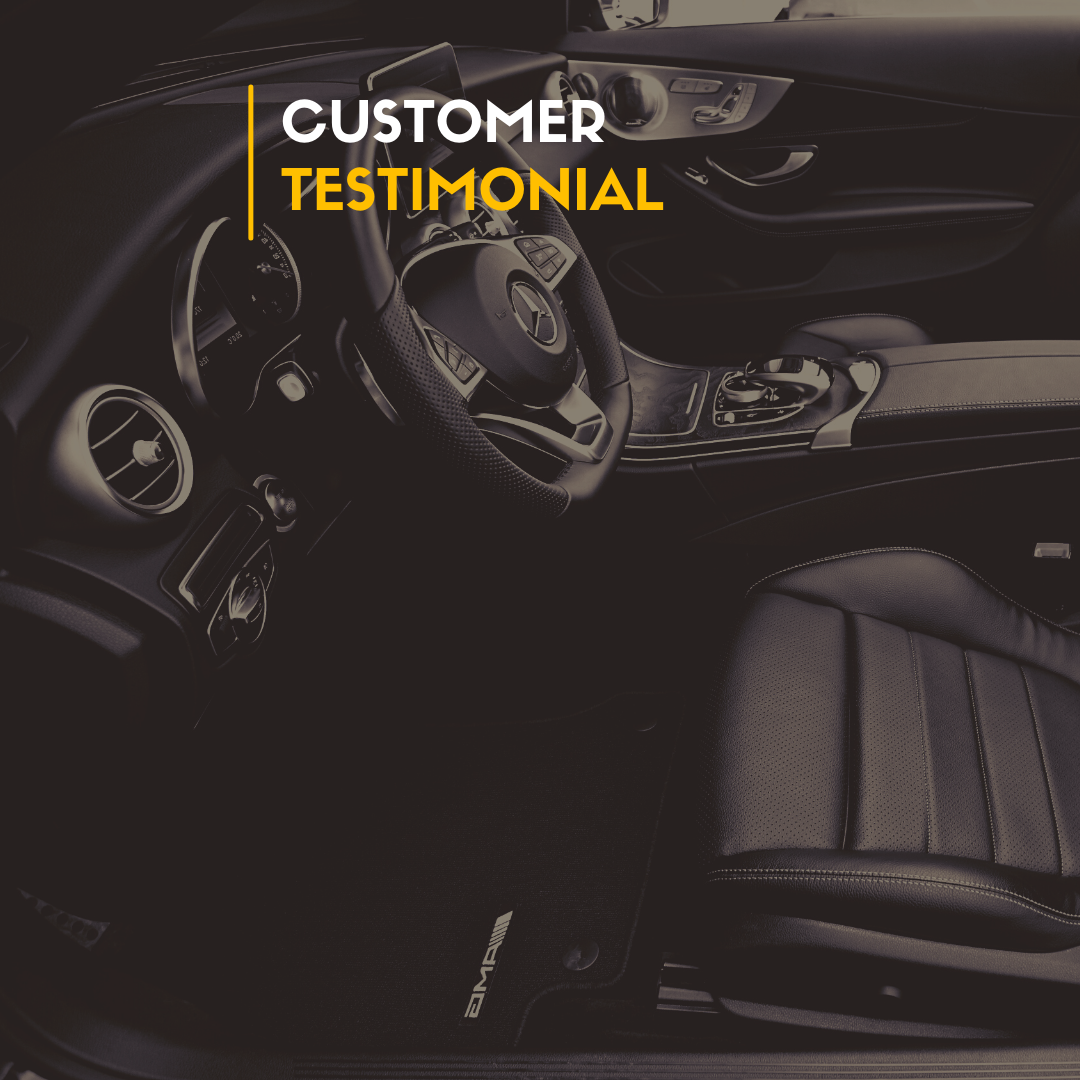
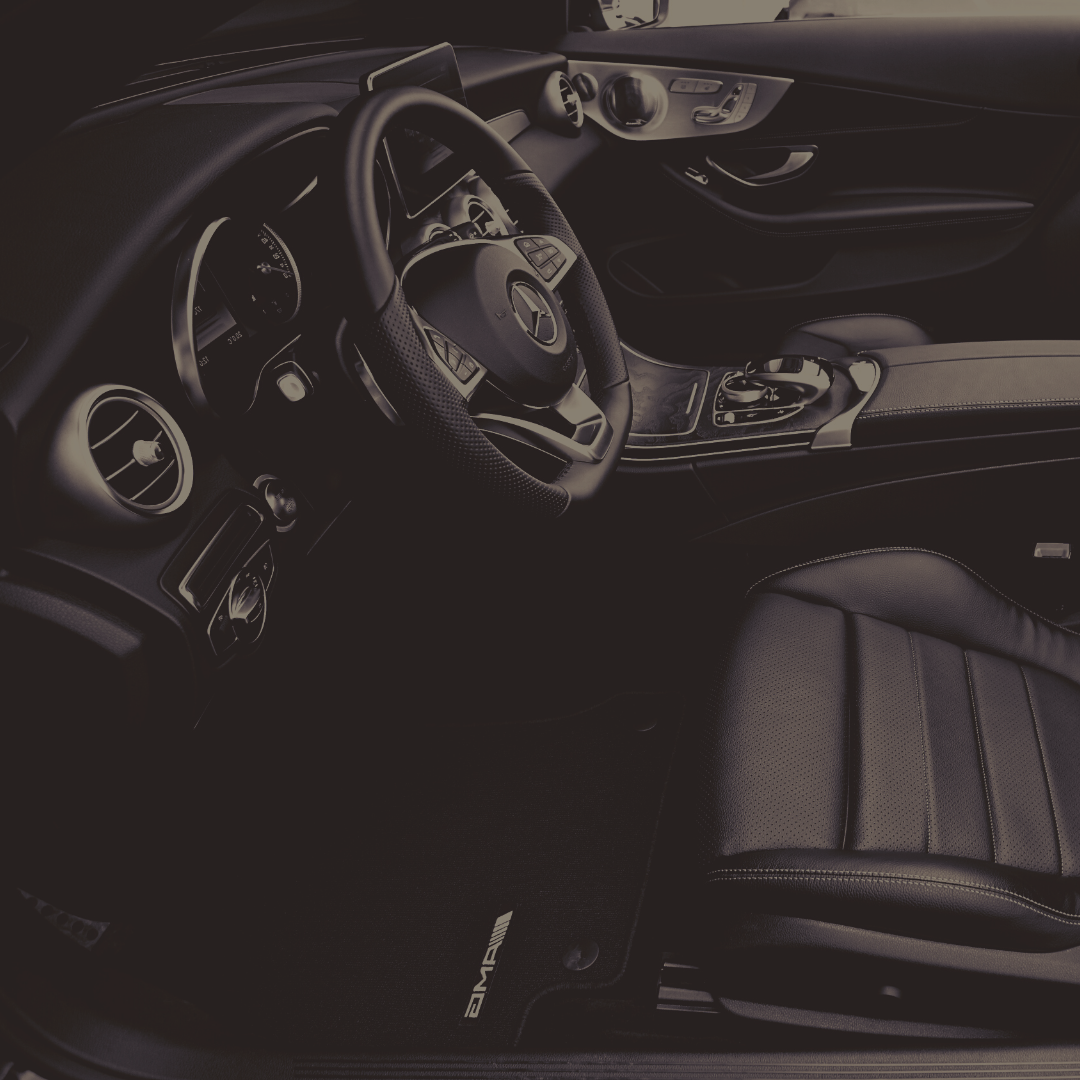
Update customer testimonial section.

Changed region(s): [[0.2139, 0.0917, 0.6111, 0.2139]]

diff --git a/assets/css/style.css b/assets/css/style.css
@@ -26,3 +26,14 @@ section.testimoni .bg-testimoni {
   background-image: url(../img/bg-testimoni.png);
   background-size: cover;
 }
+
+section.testimoni .customer-testimonial {
+  padding: 60px;
+}
+
+@media (max-width: 576px) {
+  section.testimoni .customer-testimonial {
+    padding: 20px;
+    width: 100%;
+  }
+}

diff --git a/index.php b/index.php
@@ -103,6 +103,7 @@
     </section>
     <section class="testimoni" id="testimoni">
       <div class="container-fluid bg-testimoni">
+        <img src="./assets/img/customer-testimonial.png" alt="Testimoni Mitsubishi Medan" class="customer-testimonial">
         <img src="./assets/img/testimoni-1.png" alt="Testimoni Mitsubishi Medan">
       </div>
     </section>
